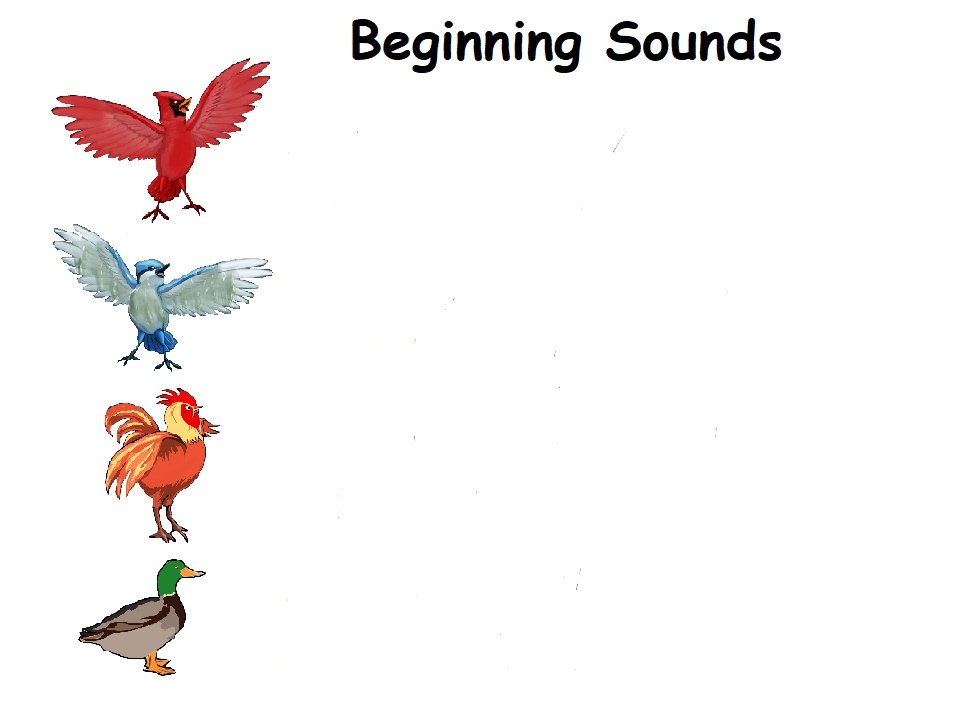
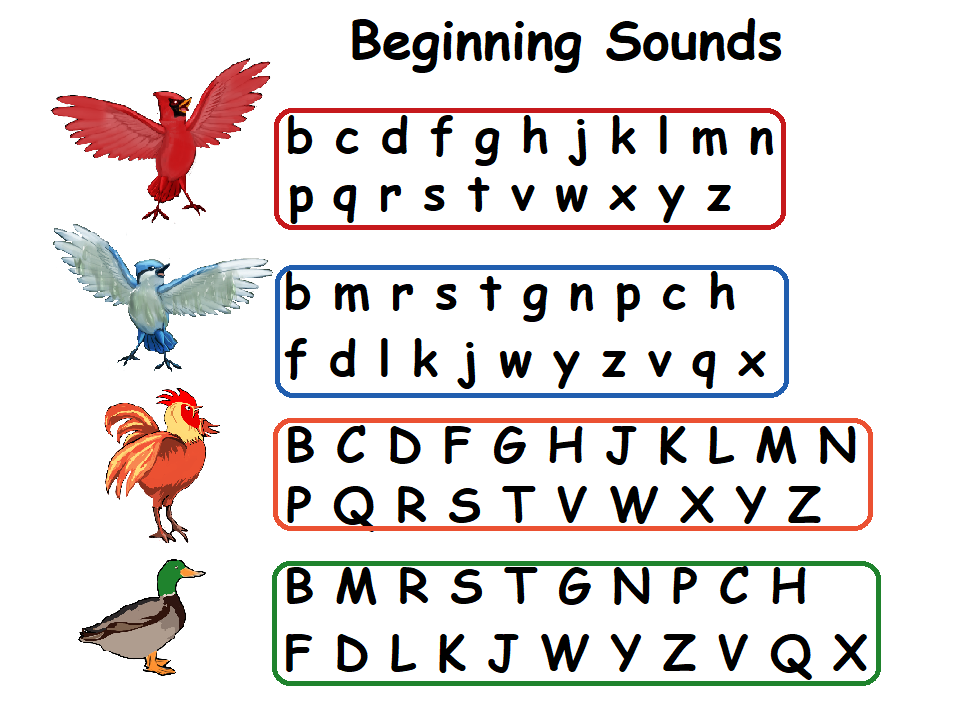
update (menu) - k beginning sounds

diff --git a/src/app/pages/k-categories/k-beginning-sounds-details/k-beginning-sounds-details.component.css b/src/app/pages/k-categories/k-beginning-sounds-details/k-beginning-sounds-details.component.css
@@ -1,58 +1,47 @@
 #main-body {
     width: 169.7vh;
     height: 0vh;
-    padding-left: 40vh;
+    padding-left: 23vh;
     position: relative;
   }
   
   #background {
       background-color: #FFFFFF !important;
       background: url('../../../../assets/img/backgrounds/k_beginning_sounds.png') no-repeat scroll transparent;
-      background-position: center top;
+      background-position: 23vh top;
       background-size: 132vh;
   }
   
   /* Pre-K Categories */
   #lowercase_alphabetical {
-      background: url('../../../../assets/img/buttons/k_beginning_sounds_alphabetical.png') no-repeat scroll transparent;
-      background-position: center;
-      background-size: 65vh;
       cursor: pointer;
-      width: 65vh;
       height: 15vh;
+      width: 101vh;
       margin-top: 0vh;
   }
   #lowercase_bmras {
-    background: url('../../../../assets/img/buttons/k_beginning_sounds_bmras.png') no-repeat scroll transparent;
-    background-position: center;
-    background-size: 62vh;
     cursor: pointer;
-    width: 63vh;
     height: 16vh;
+    width: 101vh;
   }
   #uppercase_alphabetical {
-    background: url('../../../../assets/img/buttons/k_beginning_sounds_capital_alphabetical.png') no-repeat scroll transparent;
-    background-position: center;
-    background-size: 80vh;
     cursor: pointer;
-    width: 80vh;
     height: 17vh;
   }
   #uppercase_bmras {
-    background: url('../../../../assets/img/buttons/k_beginning_sounds_capital_bmras.png') no-repeat scroll transparent;
-    background-position: center;
-    background-size: 77vh;
     cursor: pointer;
-    width: 77vh;
     height: 16vh;
+    margin: 2.2vh 0vh 0vh 7vh;
   }
 
   .column {
-    padding-top: 12vh;
+    padding-top: 15vh;
   }
 
   .category_button {
-      margin: 5.2vh 0vh 0vh 29vh;
+      margin: 5.2vh 0vh 0vh 7vh;
       border: none;
       display: inherit;
+      width: 115vh;
+      background-color: transparent;
   }
